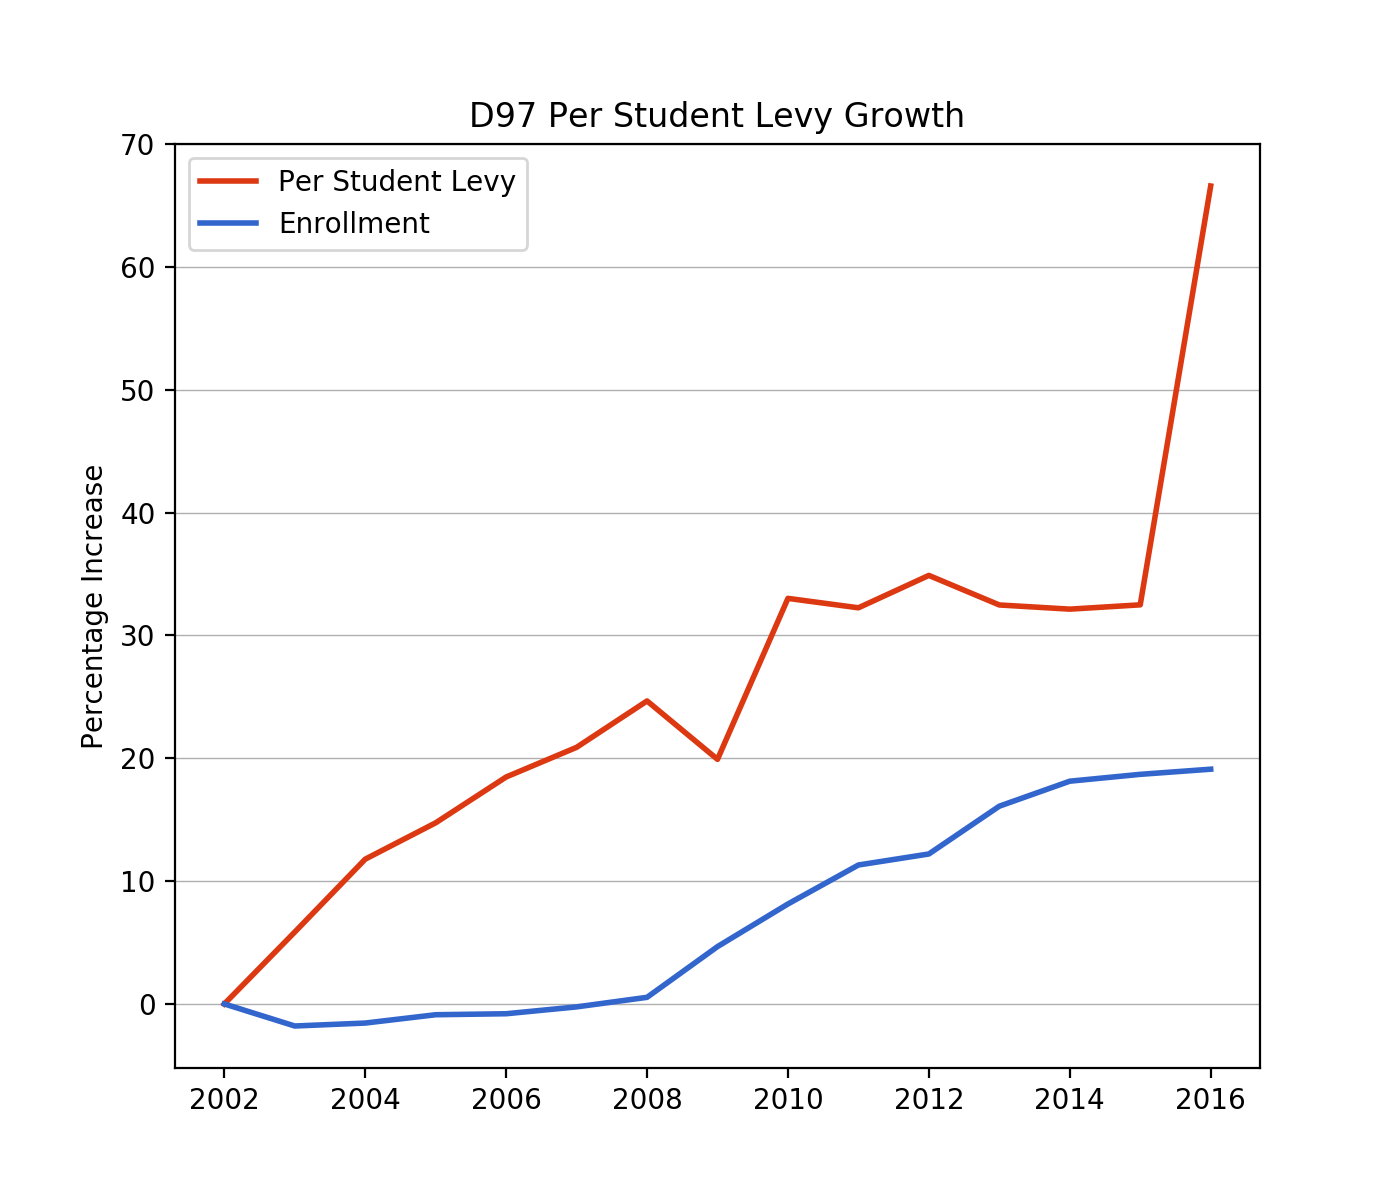
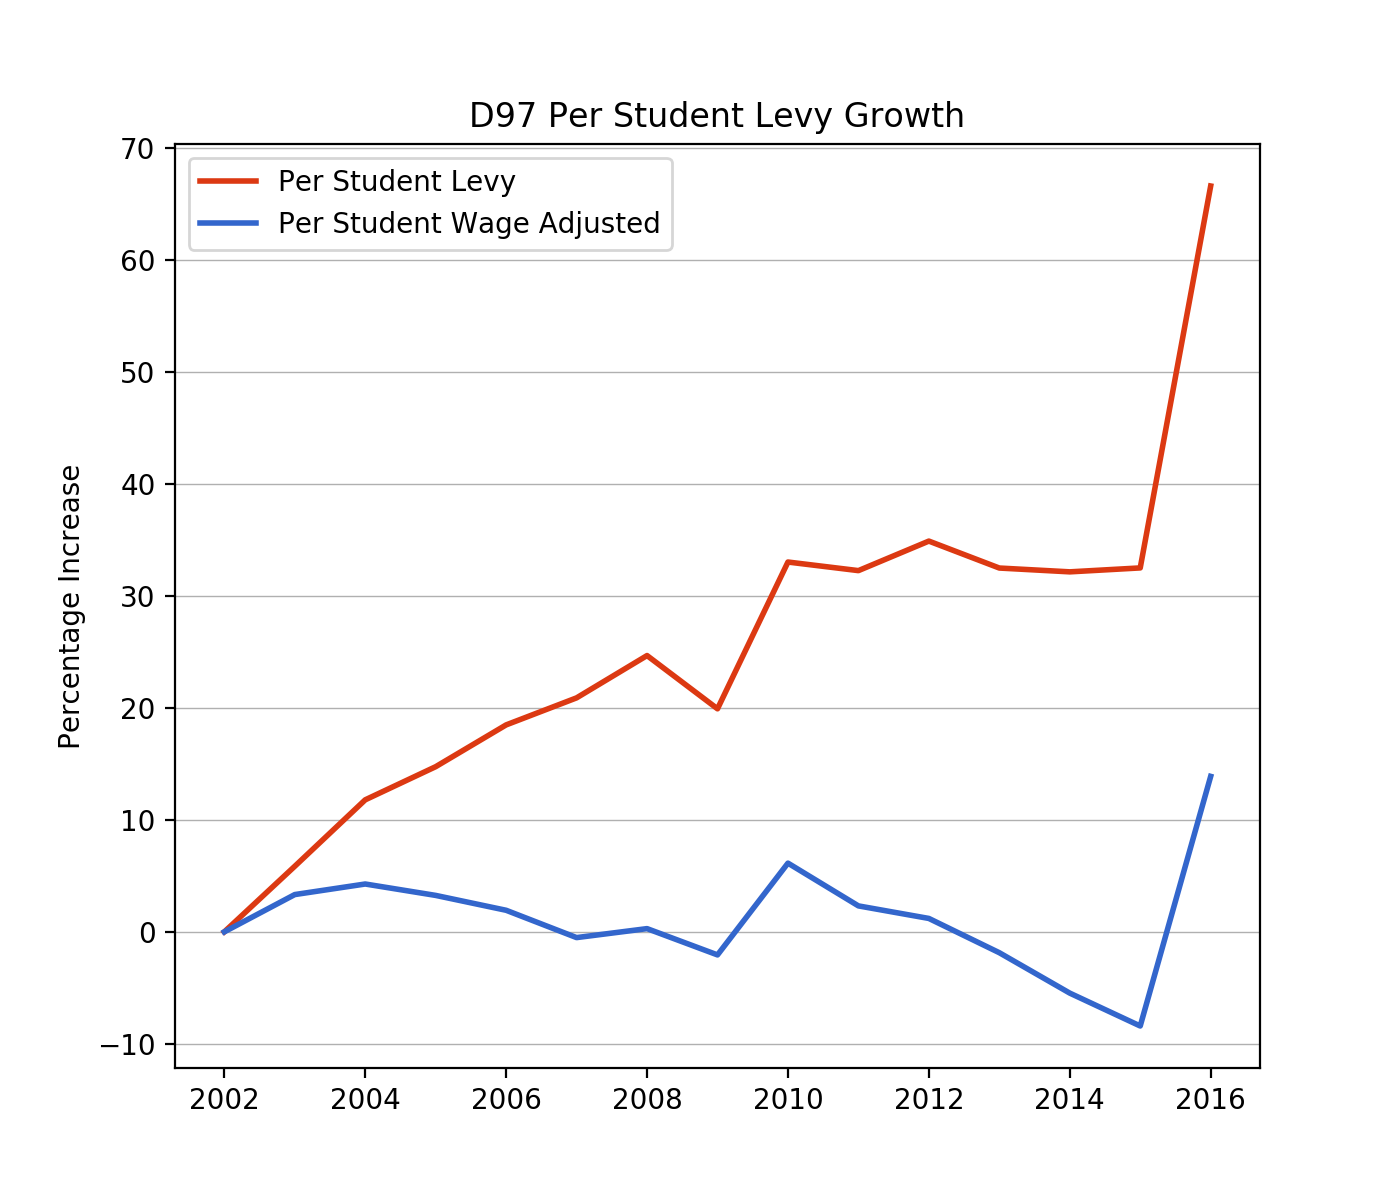
Update per student

diff --git a/scripts/d97perstudent.py b/scripts/d97perstudent.py
@@ -9,9 +9,11 @@ final = final[final.Year != 'All']
 final = final.set_index(np.array(final.Year).astype(int))
 final = final[ final.index > 2001]
 based97enrollment = final['D97 Enrollment'][baseyear]
+baseawi = final.AWI[baseyear]
 baseperstudent = final.D97[baseyear] / based97enrollment
-
+baseperstudentadjused = baseperstudent;
 perstudent = ((final.D97 /  final['D97 Enrollment']) - baseperstudent) / baseperstudent
+perstudentadjusted =  ((final.D97 /  final['D97 Enrollment']) * baseawi / final.AWI - baseperstudent) / baseperstudent
 d97enrollment = (final['D97 Enrollment'] - based97enrollment) / based97enrollment
 
 
@@ -19,11 +21,11 @@ plt.close()
 plt.figure(figsize=(7,6), dpi=200)
 plt.title("D97 Per Student Levy Growth")
 plt.ylabel('Percentage Increase')
-line2=plt.plot(perstudent * 100, color='#dc3912', linewidth=2)
-line5=plt.plot(d97enrollment * 100,  color='#3366cc', linewidth=2)
+line1=plt.plot(perstudent * 100, color='#dc3912', linewidth=2)
+line2=plt.plot(perstudentadjusted * 100,  color='#3366cc', linewidth=2)
 
 plt.xticks([2002, 2004, 2006, 2008, 2010, 2012, 2014, 2016])
-plt.legend(['Per Student Levy', 'Enrollment'])
+plt.legend(['Per Student Levy', 'Per Student Wage Adjusted'])
 plt.grid(axis='y', linewidth=0.5)
 
 plt.savefig('charts/d97 per student levy growth.png')

diff --git a/scripts/wagepricecomparison.py b/scripts/wagepricecomparison.py
@@ -15,6 +15,7 @@ awi = (final.AWI - baseawi) / baseawi
 
 cpiadjusted = final.All * basecpi / final.CPI 
 awiadjusted = final.All * baseawi / final.AWI 
+
 plt.close()
 plt.figure(figsize=(7,6), dpi=200)
 plt.ylabel("Percentage increase")
